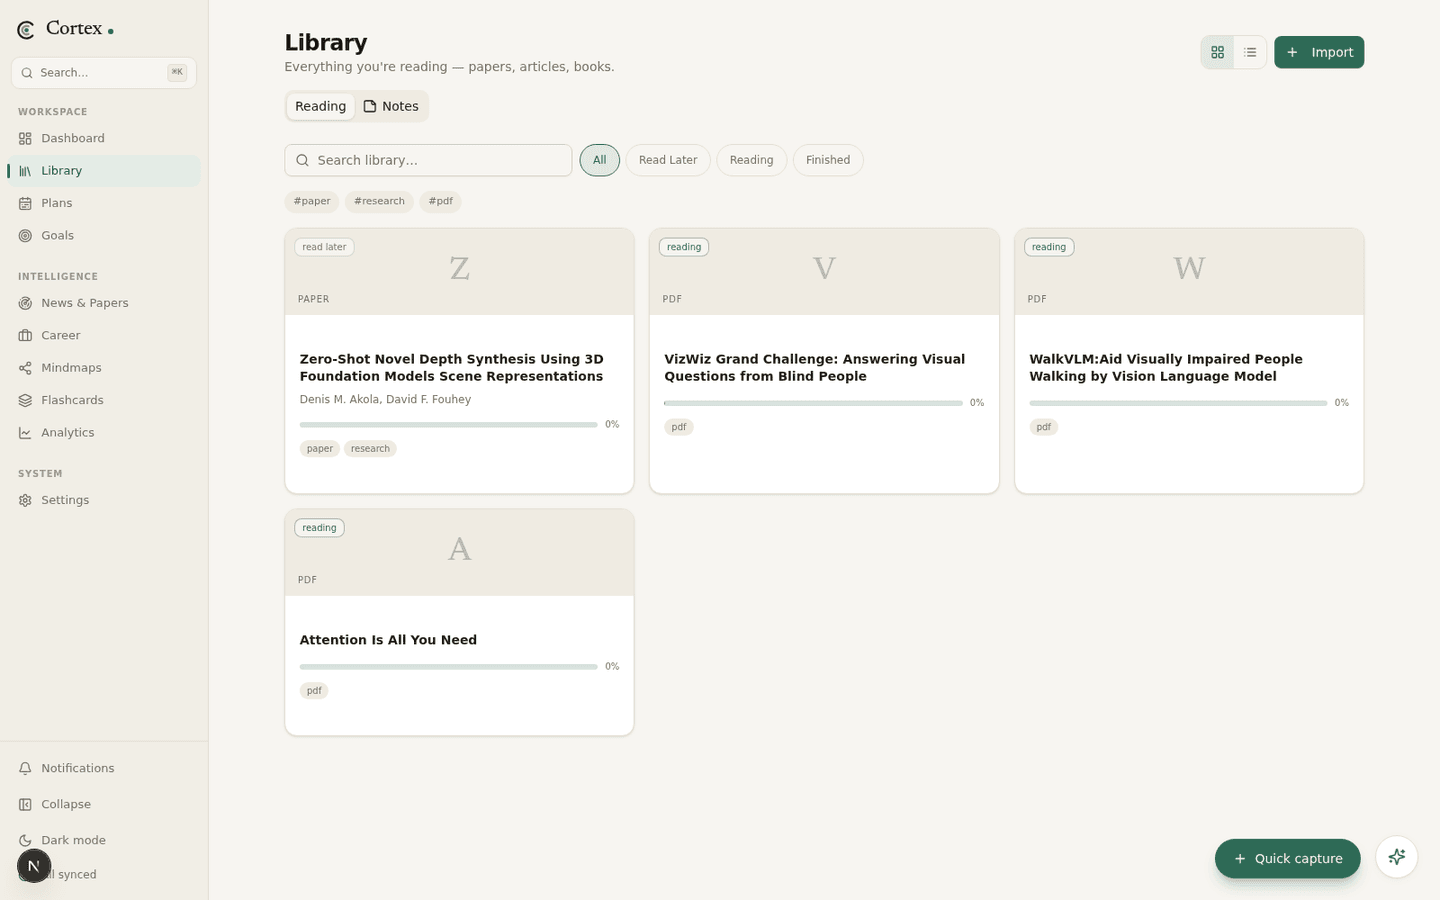
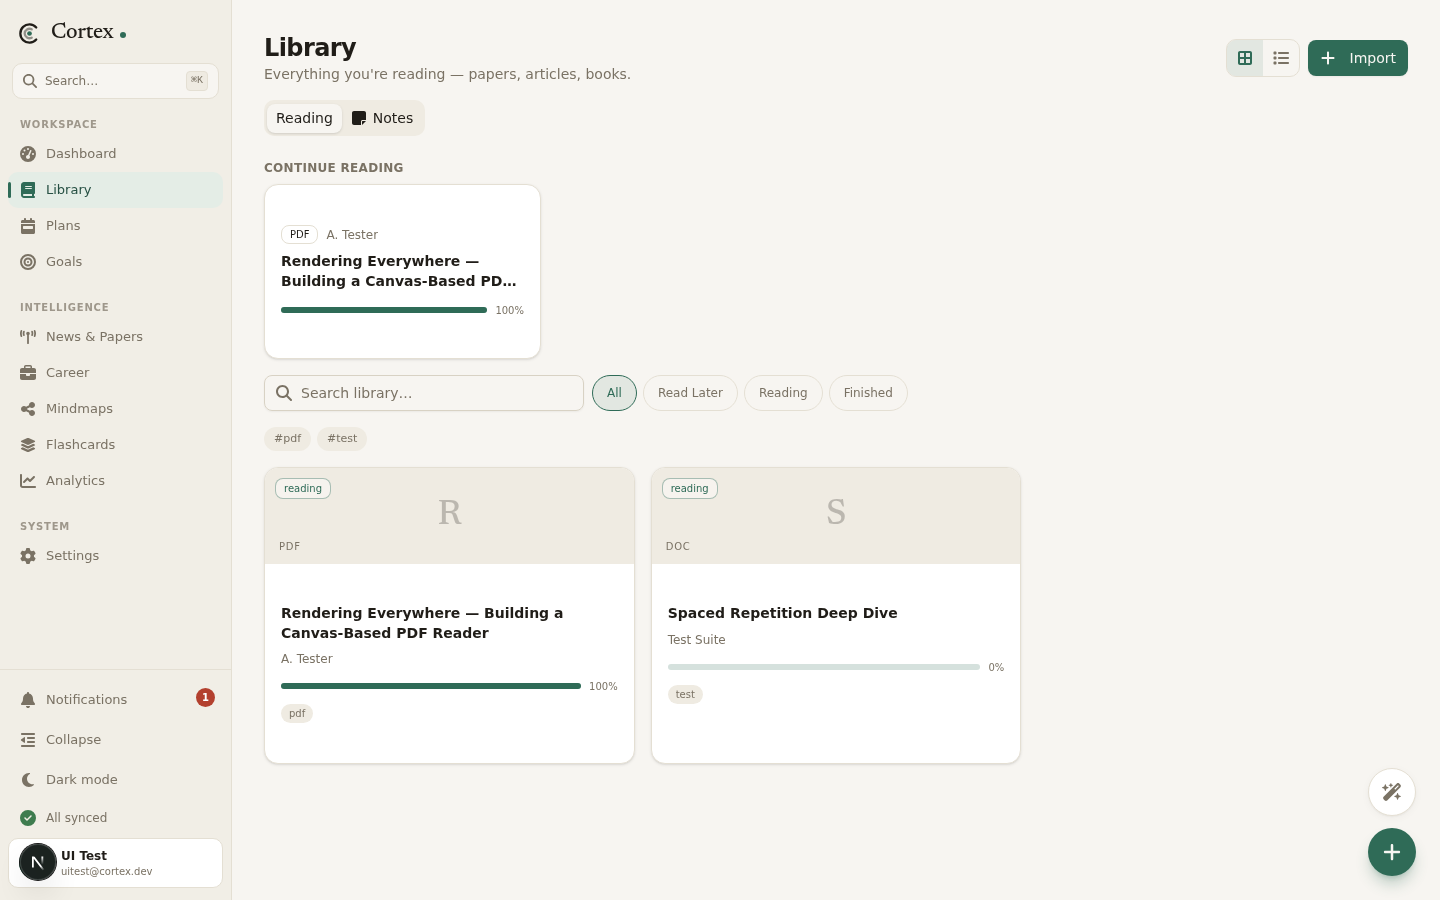
docs: rewrite README — why-first sections, fresh screenshots for every surface
- Reorganized as a product tour in workflow order (dashboard, reading, ask-the-document,
  flashcards, mindmaps, plans/goals, radar, career, analytics, extras, mobile)
- Each section now leads with the problem it solves, then how it is built
- 13 fresh screenshots incl. landing, reader chat with citations, career discover,
  flashcards, analytics, dark mode and mobile reader
- Structure section updated: landing page, /app workspace, 27 API route groups,
  pdf-viewer, copilot dock, landing components

diff --git a/README.md b/README.md
@@ -8,44 +8,139 @@
 ![SQLite](https://img.shields.io/badge/SQLite-003B57?style=flat&logo=sqlite&logoColor=white)
 ![shadcn/ui](https://img.shields.io/badge/shadcn%2Fui-000000?style=flat&logo=shadcnui&logoColor=white)
 
-Cortex is a personal knowledge and productivity workspace. It puts everything I actually use day to day — reading papers, planning work toward goals, keeping up with AI research, tracking job applications, and reviewing what I've learned — into one place that talks to itself, instead of living in a dozen browser tabs.
+Cortex is a personal knowledge and productivity workspace. Reading, planning, review and career tracking live in one place — and each part feeds the next: what you read becomes highlights, highlights become flashcards, documents become mindmaps, and plans point at goals you actually care about.
+
+![Cortex landing page](docs/screenshots/landing.png)
+
+## Why it exists
+
+Knowledge work falls apart across tools. Papers live in one app, notes in another, plans in a spreadsheet, job applications in an inbox — every tool does one thing well and nothing talks to anything else. The cost is not the switching, it is the lost connections: the paper you read never becomes the flashcard you review, and the plan you make never points at the goal it serves.
+
+Cortex is one workspace built around those connections. Everything below starts with the problem it solves, then how it is built.
+
+---
+
+## The daily dashboard
+
+**Problem:** opening a laptop should answer *"what should I do right now?"* in seconds, not after clicking through five apps.
+
+The dashboard opens with a briefing — flashcards due, unread stories, today's tasks — then the day itself: a timeline of scheduled tasks, the single **next best task** picked from what is due, active goals with computed progress, a news digest, and everything due within seven days. It reads the rest of the workspace so you do not have to.
 
 ![Dashboard](docs/screenshots/dashboard.png)
 
-I started it because my workflow had fallen apart across tools: papers in one app, notes in another, plans in a spreadsheet, and job applications in my inbox. Every tool did one thing well and nothing talked to each other. Cortex is my attempt at fixing that — a single workspace where the things I read feed the notes I keep, the notes feed the flashcards I review, and the plans I make point at goals I actually care about.
+## Reading — library and reader
 
-## What's inside
+**Problem:** PDFs on mobile are broken (browsers have no native viewer), and reading position never follows you between devices.
 
-**Reading — Library + Reader.** Import PDFs three ways: pick a local file, paste a URL (an arXiv link like `arxiv.org/pdf/1706.03762` works — it's fetched as a binary and stored properly), or paste raw text. The Reader opens PDFs in a browser-native viewer, so the layout, figures, and math look exactly the way the authors formatted them. Alongside the page there's an **Ask AI** panel that answers questions with citations into the document, a summary tab, and highlights. Anything you highlight can be turned into a flashcard in one click.
+The library holds everything you read. Import happens three ways: pick a local file, paste a URL (an arXiv link like `arxiv.org/pdf/1706.03762` is fetched as a binary and stored properly), or paste raw text. The reader renders PDFs with pdf.js on a `<canvas>` — pixels, not iframes — so page geometry is identical on every device, including phones where the canvas stretches to fill the screen.
+
+![Library](docs/screenshots/library.png)
 
 ![Reader](docs/screenshots/reader.png)
 
-**Planning — Plans + Goals.** Plans nest from year down to day, with an outline view and a Kanban board, plus a few starter templates. A plan can be linked to a goal, so "Linear algebra in October" can point at "ML/DL architect job (2027)" as its destination while the Goals tab stays its own thing. Progress on goals and milestones is computed from the tasks underneath them, not typed in by hand.
+How the details are handled:
+
+- **Resume everywhere.** The exact page is saved to `localStorage` instantly (same-device resume) and to the database debounced (cross-device resume). Reopening a book puts you back on the page, not at the top.
+- **Immersive fullscreen.** One click hides the app chrome; the in-canvas toolbar keeps zoom, page navigation and the AI toggle. Esc minimizes the chat first, then exits fullscreen.
+- **Text mode.** For anything with extracted text, the same document can be read as a clean typographic column with scroll-based progress — useful for articles and pasted content.
+
+## Ask the document
+
+**Problem:** AI answers about a paper are worthless if you cannot verify them against the source.
+
+The reader carries a chat panel that answers strictly from the document's extracted text. Every claim gets a numbered citation chip; clicking one jumps the PDF to the exact page the answer came from — the viewer flips to `original` mode and scrolls there. The same chat stays available in fullscreen as a floating popup, so fact-checking never breaks the reading flow.
+
+![Ask AI with citations](docs/screenshots/reader-chat.png)
+
+Documents also get an AI summary with key takeaways, generated from the extracted text.
+
+## Highlights become flashcards
+
+**Problem:** rereading feels productive and isn't. Memory needs retrieval practice, and making cards by hand is enough friction that nobody does it.
+
+Select any passage in the reader, pick a highlight color, and tap *Flashcard* — the AI writes the question and answer from the selected text. Review uses **SM-2**, the spaced-repetition algorithm behind Anki: each card gets an ease factor and an interval, due cards queue up daily, and honest grading ("again" through "easy") reschedules them. Cards keep a link back to the document and highlight they came from.
+
+![Flashcards](docs/screenshots/flashcards.png)
+
+## Mindmaps
+
+**Problem:** after twenty pages you have the pieces but not the shape of the argument.
+
+Any document, topic, or your collected notes can be turned into a mindmap: the AI returns a labeled tree, which is laid out automatically as a horizontal tree on an editable canvas — drag nodes, recolor branches, auto-layout, export to PNG or Markdown. Mindmaps can also absorb highlights and document references as linked nodes.
+
+One map per document: regenerating a map for a document that already has one returns the existing map instead of silently creating a duplicate (enforced in the database by a `sourceDocId` link, so rapid double-clicks cannot create copies).
+
+![Mindmaps](docs/screenshots/mindmaps.png)
+
+## Plans and goals
+
+**Problem:** plans drift when they point at nothing, and progress that is typed in by hand is a wish, not a measurement.
+
+Plans nest from year down to day with an outline view and a Kanban board, plus starter templates. A plan can be linked to a goal — "linear algebra in October" points at "ML/DL architect role by 2027" — and the goal's progress ring is *computed* from its milestones and the tasks underneath them, never entered manually. The week strip and the dashboard timeline keep the near term visible.
 
 ![Plans](docs/screenshots/plans.png)
 
-**News & Papers.** Real RSS aggregation — no fake seed data. The News tab pulls from OpenAI, Google DeepMind, Hugging Face, Microsoft Research, NVIDIA, TechCrunch AI, TLDR AI, Import AI, and Ahead of AI, with source and time filters (day / week / month / year). The Papers tab fetches fresh research from arXiv and the Hugging Face daily papers, and for any paper the AI writes a structured breakdown: what problem it solves, what's actually new, key results, and why it matters.
+## Radar — news and papers
 
-![News](docs/screenshots/news.png)
+**Problem:** the field moves faster than tab-hoarding can track, and a feed you can't trust is noise.
 
-**Career.** Two tabs. *Discover* pulls live jobs, internships, and research positions from authentic sources — official company ATS boards (Anthropic, Mistral AI, Databricks, Together AI, Scale AI, Figure AI, Imbue via the Greenhouse/Lever public APIs) plus the RemoteOK and Remotive public job APIs — each listing linked straight to the real posting, with type/source filters and search. Anything interesting gets saved into the *Pipeline* Kanban (saved → applied → interview → offer) with one click. Paste an email or job posting and the AI extracts company, role, and deadline into a structured entry. Gmail import is wired up through real Google OAuth — bring your own credentials and it surfaces application-related emails automatically.
+Radar aggregates real sources — no seed data. News pulls live RSS from OpenAI, Google DeepMind, Hugging Face, Microsoft Research, NVIDIA, TechCrunch AI, TLDR AI, Import AI and Ahead of AI, with source and time filters and a saved list. Papers fetch from arXiv and the Hugging Face daily list; for any paper, the AI writes a structured breakdown: the problem it solves, what is actually new, key results, and why it matters.
 
-**Knowledge tools.** Mindmaps can be generated from any document or topic and edited on canvas. Flashcards use the SM-2 spaced-repetition algorithm (the Anki one) with a daily due queue. Analytics charts reading time, focus hours, and task completion. A Copilot dock sits on every screen with suggested questions, and there's a global ⌘K command bar, a Pomodoro focus timer tied to tasks, quick capture from anywhere, full JSON export, and a dark mode that isn't an afterthought.
+![News and papers](docs/screenshots/news.png)
+
+## Career
+
+**Problem:** a job search is a pipeline, not a bookmark folder — and good roles are scattered across dozens of ATS boards nobody checks daily.
+
+Three tabs. *Discover* pulls live jobs, internships and research positions from official company boards (Anthropic, Mistral AI, Databricks, Together AI, Scale AI, Figure AI, Imbue via the Greenhouse/Lever public APIs) plus the RemoteOK and Remotive APIs — every card links straight to the real posting, filterable by type, source and role family. A *Scholarships* tab aggregates masters/PhD funding feeds the same way. Anything interesting is saved into the *Pipeline* Kanban (saved → applied → interview → offer) in one click, and pasting a job email lets the AI extract company, role and deadline into a structured entry. Gmail import runs through real Google OAuth — your email goes through your own Google project.
+
+![Career discover](docs/screenshots/career.png)
+
+## Analytics
+
+**Problem:** without honest feedback, you optimize what feels productive instead of what is.
+
+Analytics charts reading time, tasks completed, focus hours, cards reviewed and goal velocity (milestones completed per week) over the week or month — all computed from real sessions: opening a book logs reading time, the Pomodoro timer logs focus, reviews log cards.
+
+![Analytics](docs/screenshots/analytics.png)
+
+## The rest of the loop
+
+- **Quick capture** from anywhere — the plus button on every screen takes a note, task or link before the thought evaporates; items land in the inbox for triage.
+- **Command bar** (`Ctrl/Cmd+K`) to jump to any document, view or action.
+- **Copilot dock** with suggested questions on every screen; inside a book, the Copilot icon becomes the reader's own chat.
+- **Focus timer** — a Pomodoro that logs sessions against tasks, feeding the focus chart.
+- **Export** — full JSON, per-document Markdown and PDF.
+- **Dark mode** — the same warm paper palette, rebuilt for the dark, not an inverted afterthought.
 
 ![Dark mode](docs/screenshots/dashboard-dark.png)
 
-## Tech stack
+## Mobile
 
-- **Next.js 16** (App Router) + **React 19** + **TypeScript** — the whole thing is one app, server routes included
-- **Prisma** over **SQLite** — deliberately boring, zero-setup persistence
-- **Tailwind CSS 4** + **shadcn/ui** — the design system is warm paper tones with a single green accent, no default-blue anywhere
-- **z-ai-web-dev-sdk** — powers document chat, summaries, paper analysis, and mindmap generation
-- **rss-parser** and **pdf-parse** — the unglamorous workhorses behind the news feed and text extraction
-- **Recharts**, **react-pdf**, **framer-motion**, **@dnd-kit** for the pieces everyone would otherwise write badly by hand
+The workspace reflows for phones: bottom tab bar, a floating action stack (mindmap, AI chat, quick capture) that follows you into the reader, and a PDF canvas that fills the screen down to the tab bar.
+
+![Mobile reader](docs/screenshots/mobile-reader.png)
+
+---
+
+## Under the hood
+
+| Choice | Why |
+| --- | --- |
+| Next.js 16 (App Router) + React 19 + TypeScript | One app for UI and API — no separate backend to deploy or keep in sync |
+| Prisma + SQLite | Zero-setup persistence; every table carries an owner id, every query is scoped by the signed-in session |
+| Tailwind CSS 4 + shadcn/ui | A warm paper-toned design system with a single green accent, built on accessible primitives |
+| z-ai-web-dev-sdk | Document chat, summaries, paper breakdowns, flashcard writing, mindmap generation |
+| pdf.js (`<canvas>` rendering) | Consistent PDF geometry on every browser, including mobile ones with no native viewer |
+| rss-parser + pdf-parse | Real RSS aggregation and text extraction — the unglamorous workhorses |
+| SM-2 scheduler (`src/lib/sm2.ts`) | The proven Anki algorithm, not a homegrown scoring scheme |
+| Recharts, @dnd-kit, Font Awesome | Charts, drag-and-drop and the icon set, without hand-rolling any of them |
+
+**Per-user isolation.** Every account is a fully isolated workspace. Documents, highlights, goals, tasks, plans, notes, the news feed, saved papers, flashcards, the career pipeline, mindmaps, focus sessions, even the fetched job listings — each table carries an owner id and every query is scoped by the signed-in session. Fetching news or papers as a new user builds *your* feed from the same live sources without touching anyone else's read/saved state. Deleting an account cascades its data.
 
 ## Running it locally
 
-You'll want **Node.js 20+** (or Bun — that's what I use, there's a `bun.lock` in the repo) and nothing else. No Postgres, no Redis, no Docker.
+You need Node.js 20+ (or Bun — there is a `bun.lock` in the repo) and nothing else. No Postgres, no Redis, no Docker.
 
 ```bash
 git clone https://github.com/SaqibMehdi123/Cortex.git
@@ -62,11 +157,9 @@ npx prisma db push
 npm run dev        # or: bun run dev
 ```
 
-Then open http://localhost:3000 — you'll land on a signup page. Create an account and the workspace is yours alone. It starts completely empty on purpose — no demo content, no "Welcome, John Doe". Create a goal, import a paper, and it builds up from there.
+Open http://localhost:3000. You land on the signup page — create an account and the workspace is yours alone. It starts completely empty on purpose: no demo content, no "Welcome, John Doe". Import a paper, set a goal, and it builds from there.
 
-Every account is a fully isolated workspace. Documents, highlights, goals, tasks, plans, notes, the news feed, saved papers, flashcards, the career pipeline, mindmaps, focus sessions, even the fetched job listings — each table carries an owner id and every query is scoped by the signed-in session, so two people on the same install see two completely different apps. Fetching news or papers as a new user builds your feed from the same live sources without touching anyone else's read/saved state. Deleting an account cascades its data.
-
-**Email verification & password reset.** New signups get a 6-digit code by email before the account is activated (10-minute expiry, 5 wrong attempts lock the code, one code per minute). Forgot your password? The sign-in page links to a reset flow that emails a fresh code and lets you pick a new password. On a laptop with no mail server the code shows up right in the UI and the server log, clearly labelled as a dev fallback; to send real mail, add SMTP to `.env`:
+**Email verification and password reset.** New signups get a 6-digit code by email before the account is activated (10-minute expiry, 5 wrong attempts lock the code, one code per minute). Forgot your password? The sign-in page links to a reset flow that emails a fresh code and lets you pick a new password. On a machine with no mail server the code appears in the UI and the server log, clearly labelled as a dev fallback. To send real mail, add SMTP to `.env`:
 
 ```dotenv
 SMTP_HOST=smtp.gmail.com
@@ -76,17 +169,13 @@ SMTP_PASS=your-app-password
 MAIL_FROM="Cortex <you@gmail.com>"
 ```
 
-### Optional: session secret
+**Session secret.** Development works without it, but if you deploy Cortex anywhere, set `AUTH_SECRET` in `.env` (for example `openssl rand -base64 32`) so session cookies are signed with your own key.
 
-Development works without it, but if you deploy Cortex anywhere, set `AUTH_SECRET` in `.env` (e.g. `openssl rand -base64 32`) so session cookies are signed with your own key.
-
-### Optional: Google integrations
-
-Gmail import and Calendar sync need OAuth credentials of your own (this is deliberate — your email should go through *your* Google project, not someone else's):
+**Optional: Google integrations.** Gmail import and Calendar sync need OAuth credentials of your own — deliberate, since your email should flow through *your* Google project:
 
 1. Create a project at [Google Cloud Console](https://console.cloud.google.com), enable the **Gmail API** and **Calendar API**
 2. Create OAuth credentials (web application) with the redirect URI `http://localhost:3000/api/auth/google/callback`
-3. Fill in `GOOGLE_CLIENT_ID`, `GOOGLE_CLIENT_SECRET`, and `GOOGLE_REDIRECT_URI` in `.env`
+3. Fill in `GOOGLE_CLIENT_ID`, `GOOGLE_CLIENT_SECRET` and `GOOGLE_REDIRECT_URI` in `.env`
 
 Everything else works without any keys.
 
@@ -95,24 +184,29 @@ Everything else works without any keys.
 ```
 src/
 ├── app/
-│   ├── api/            # ~30 route handlers: documents, plans, goals,
-│   │                   # news, papers, flashcards, auth, copilot...
-│   └── page.tsx        # the whole UI is one client app under this route
+│   ├── page.tsx        # public landing page (/, server-rendered)
+│   ├── app/            # the workspace itself (client app under /app)
+│   └── api/            # 27 route groups: documents, plans, goals, tasks,
+│                       # mindmaps, flashcards, news, papers, career,
+│                       # scholarships, auth, copilot, export, ...
 ├── components/
 │   ├── views/          # one file per screen (library, reader, plans, ...)
+│   ├── landing/        # landing sections (hero, features, flow, ...)
 │   ├── ui/             # shadcn/ui primitives
-│   └── app-shell.tsx   # sidebar, header, theme, layout
+│   ├── app-shell.tsx   # sidebar, mobile tabs, floating actions, layout
+│   ├── pdf-viewer.tsx  # pdf.js canvas renderer (zoom, nav, fullscreen)
+│   └── copilot-dock.tsx
 └── lib/
     ├── db.ts           # Prisma client
-    ├── feeds.ts        # news sources (real RSS endpoints)
-    ├── sm2.ts          # spaced repetition scheduler
-    └── paper-analysis.ts
+    ├── feeds.ts        # news + scholarship sources (real RSS endpoints)
+    ├── sm2.ts          # spaced-repetition scheduler
+    └── store.ts        # client UI state (zustand)
 ```
 
 ## Where it stands
 
-Working and used daily by me: PDF import (file + URL), the reader with Ask AI, plans/goals linking, news and paper fetching with real sources, the career Discover feed with live jobs and internships, flashcards with SM-2, mindmaps, analytics, accounts with login/signup and fully per-user data, export, dark mode.
+Working and used daily: PDF import (file, URL, text), the reader with resume, fullscreen and Ask-AI citations, highlight-to-flashcard with SM-2, mindmaps with per-document dedup, plans/goals linking with computed progress, live news and papers, career Discover and Pipeline with scholarships, analytics, per-user accounts with verified email, export, dark mode, and a mobile layout that is a first-class citizen.
 
-Known rough edges, in the order I plan to fix them: the AI features assume the Z.ai SDK is available (news and job fetching are plain HTTP and work regardless); calendar push is one-way; and the career module's email classification is only as good as its parsing.
+Known rough edges, in the order they get attention: the AI features assume the Z.ai SDK is available (news, jobs and scholarships are plain HTTP and work regardless); calendar push is one-way; the career module's email classification is only as good as its parsing.
 
-If you've read this far and something here sounds useful, fork it, break it, tell me what you find.
+If something here sounds useful, fork it, break it, and tell me what you find.
